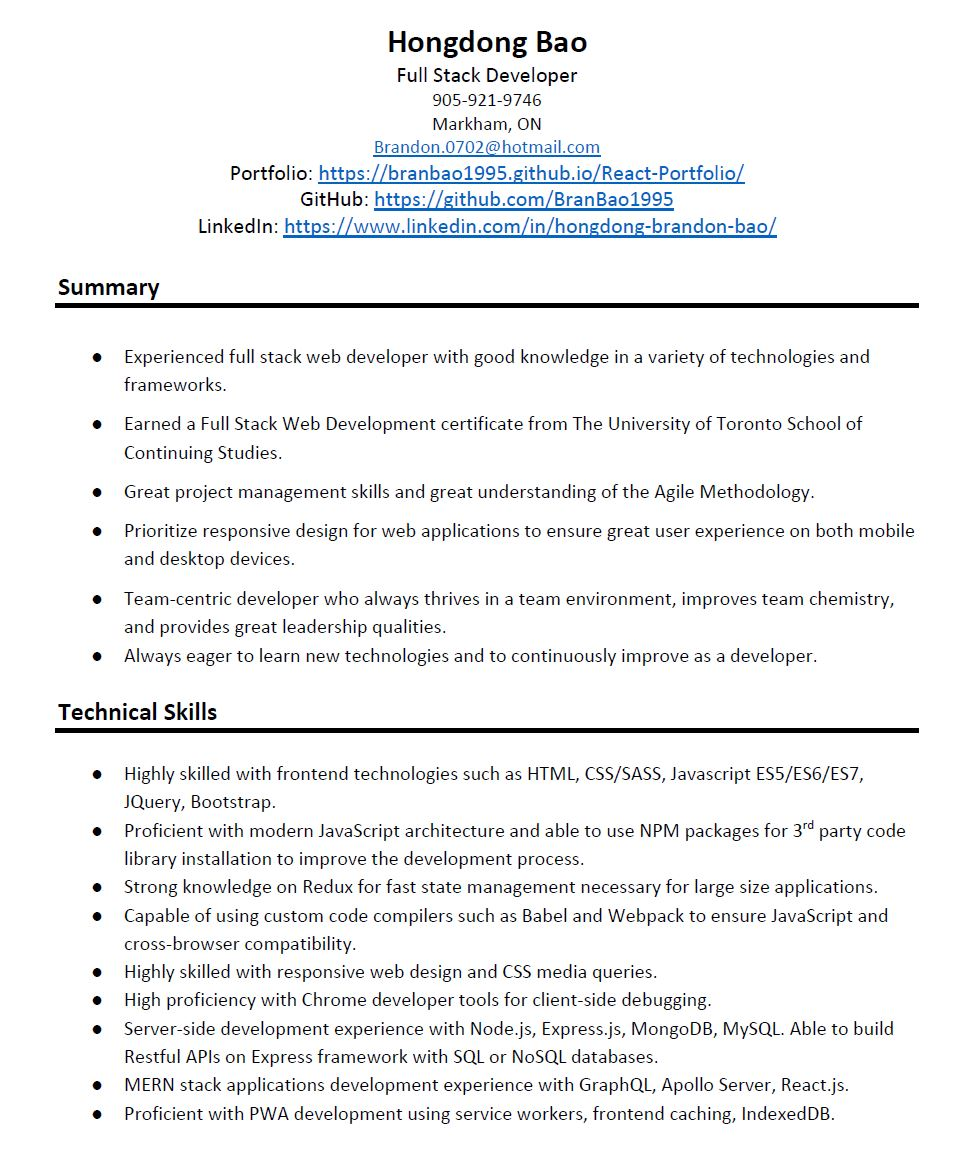
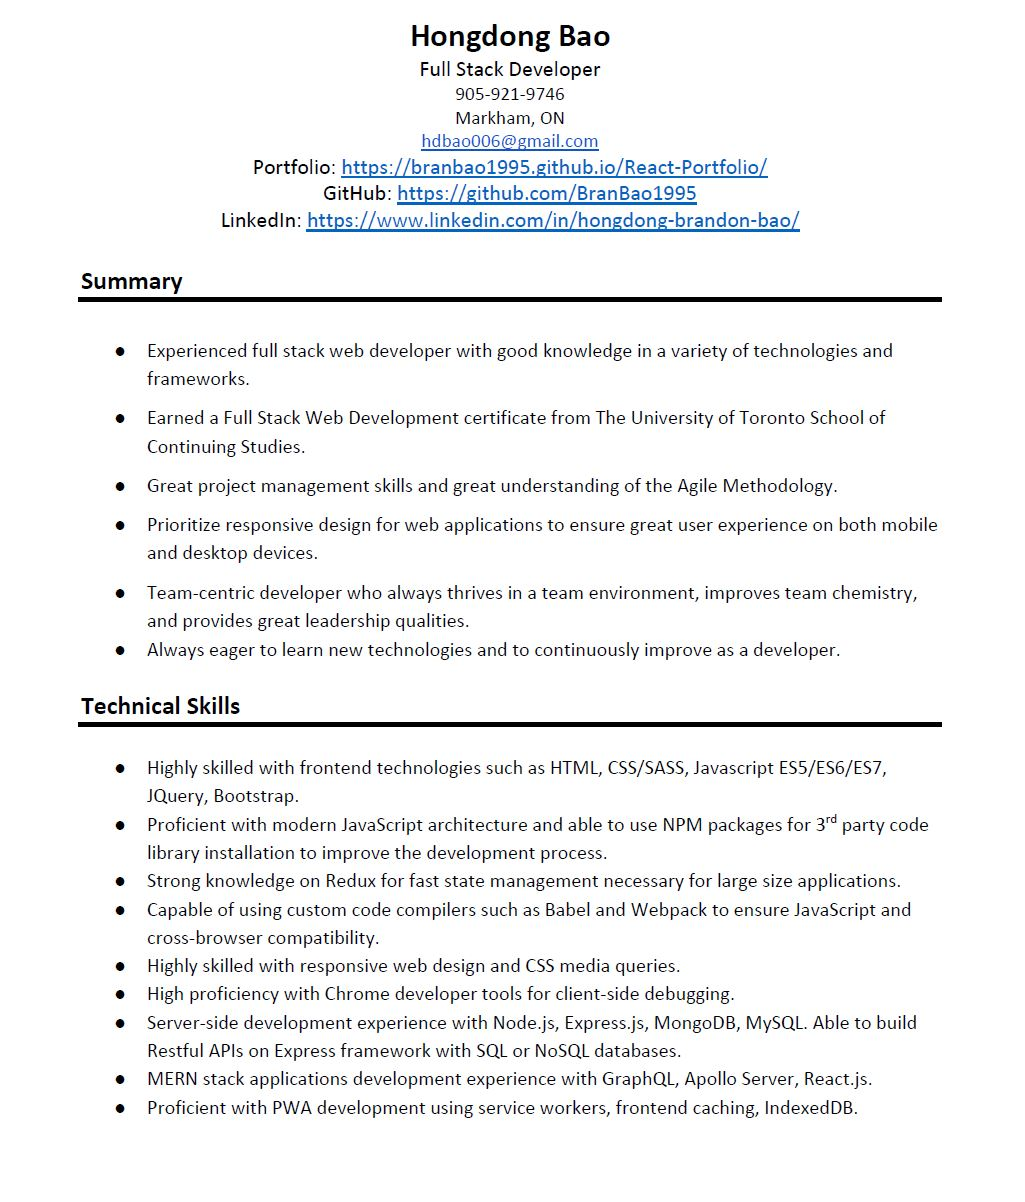
replaced old email with new email, replaced resume

Changed region(s): [[0.0619, 0.2147, 0.9278, 0.9506], [0.2165, 0.0, 0.8041, 0.2147]]

diff --git a/src/components/About/About.js b/src/components/About/About.js
@@ -51,10 +51,11 @@ function About(props) {
       <div className="bio">
         <p className="bio-text">
           Hi, I am a Full Stack Web Developer with a solid and evolving
-          skillset. I am great at many things, such as building RESTful APIs
+          skillset. I am great at many things, such as: building RESTful APIs
           with Node.js and Express.js, working with SQL or NoSQL databases,
-          working with GraphQL, making visually appealing web page designs with
-          CSS, implementing user interactivity with JavaScript, and many more.
+          building MERN Stack web apps, making visually appealing web page
+          designs with CSS, implementing user interactivity with JavaScript, and
+          many more.
         </p>
         <h2 className="skills-intro">Technologies</h2>
         <ul className="technologies">

diff --git a/src/components/Contact/Contact.js b/src/components/Contact/Contact.js
@@ -138,7 +138,7 @@ function Contact() {
   return (
     <div className="contact">
       <div className="contact-links">
-        <a className="contact-link" href="mailto:brandon.0702@hotmail.com">
+        <a className="contact-link" href="mailto:hdbao006@gmail.com">
           Send me an email
         </a>
         <a className="contact-link" href="https://github.com/BranBao1995">
